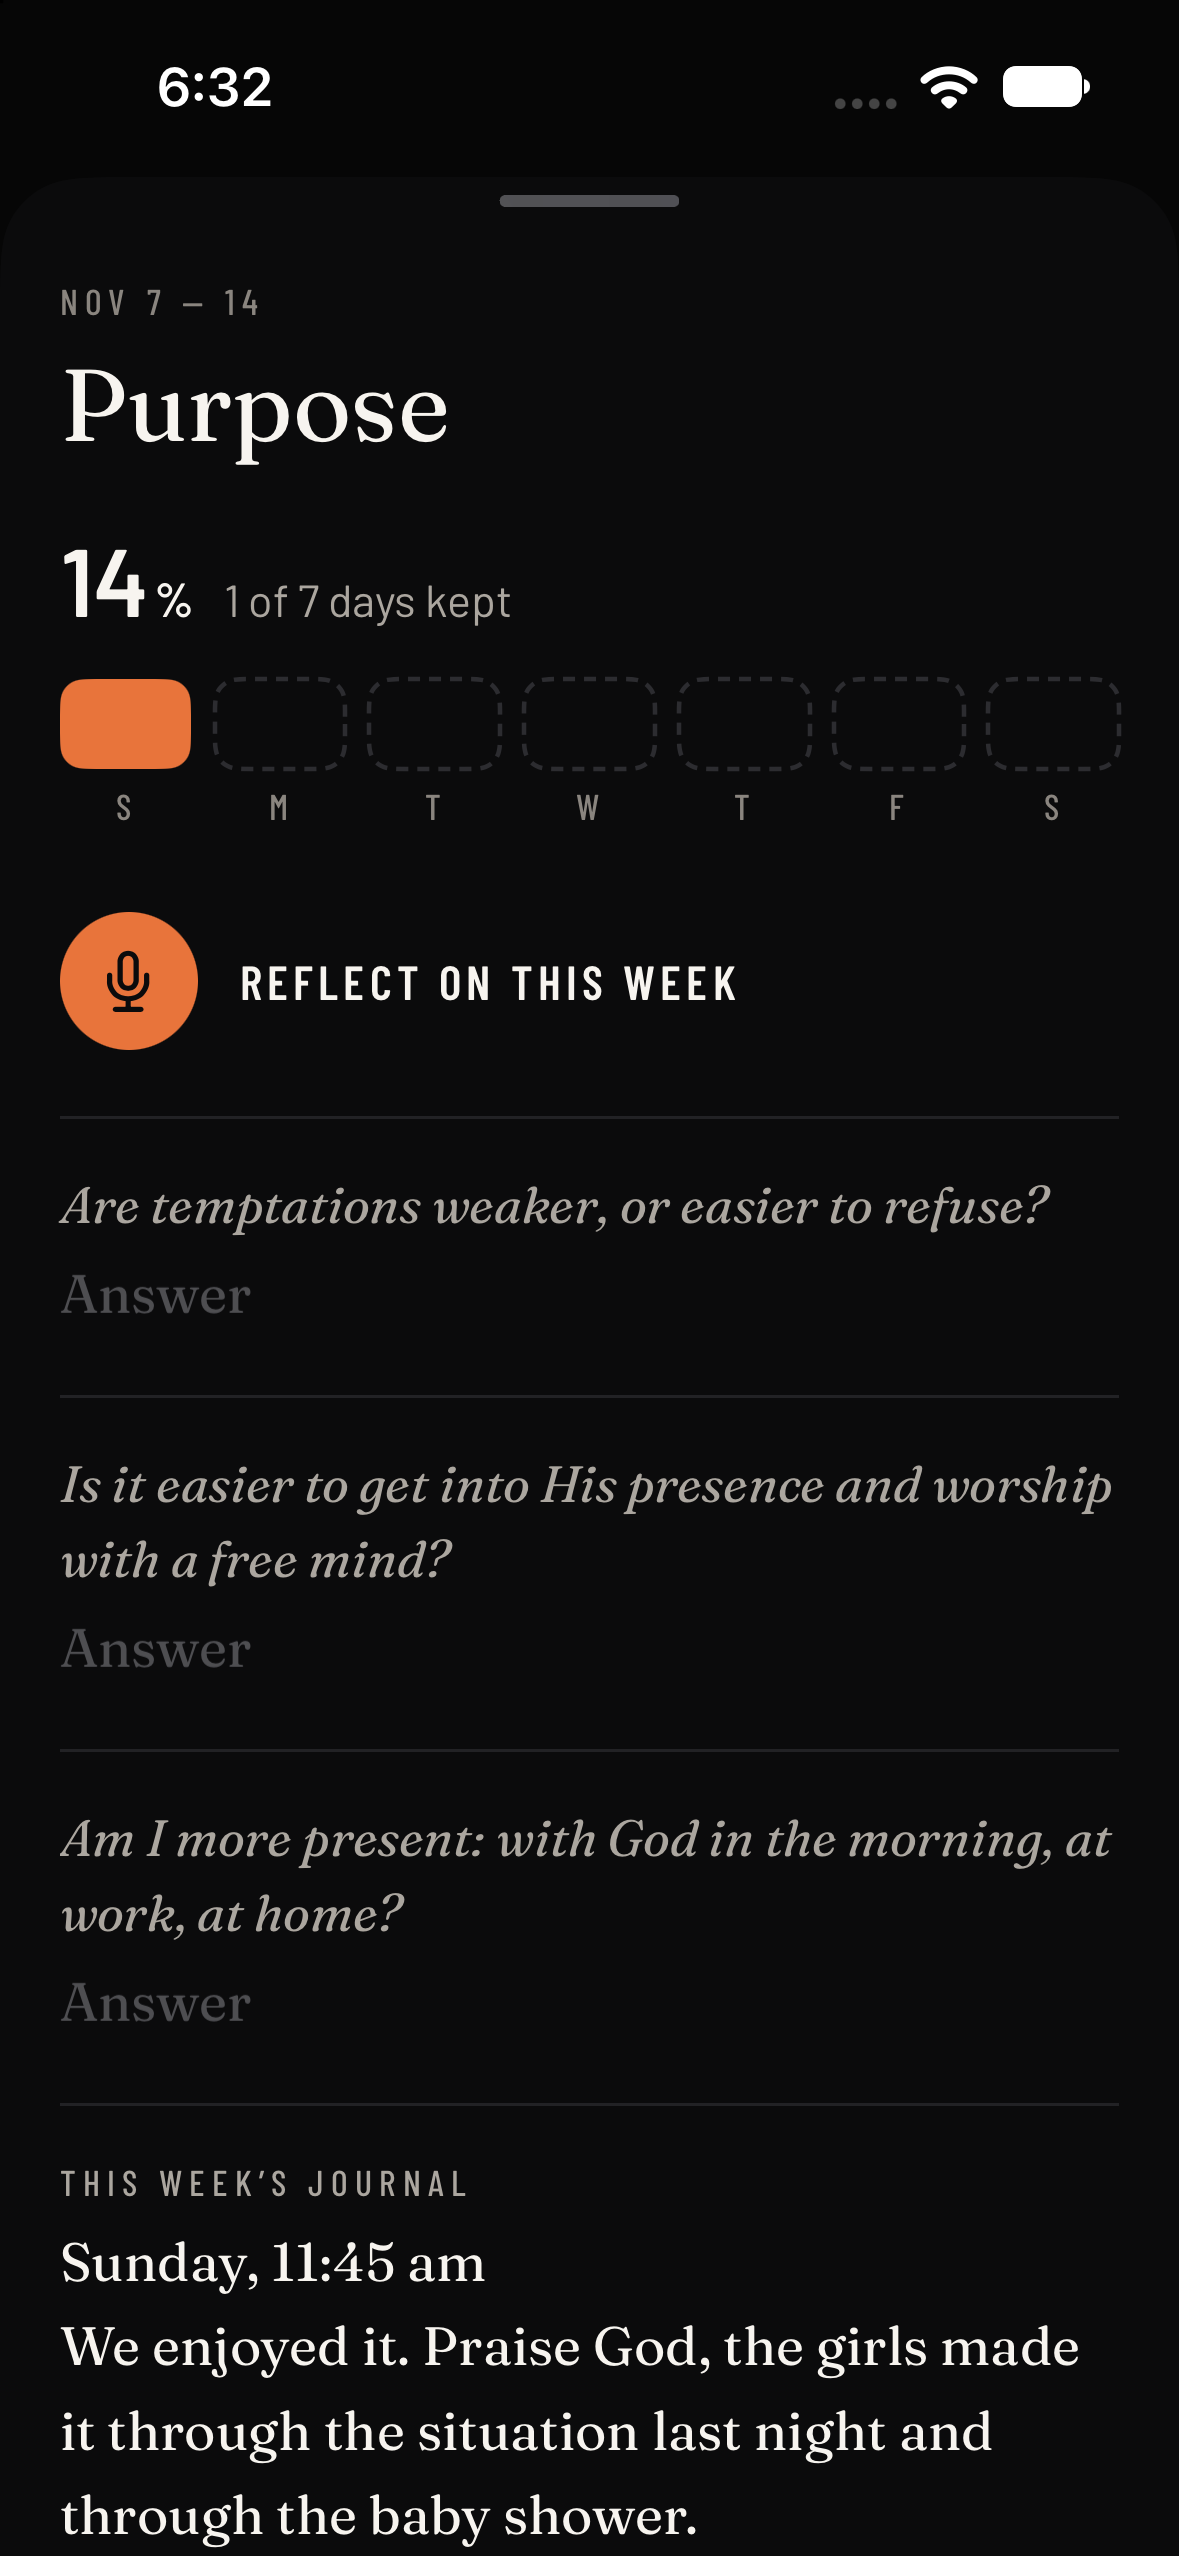
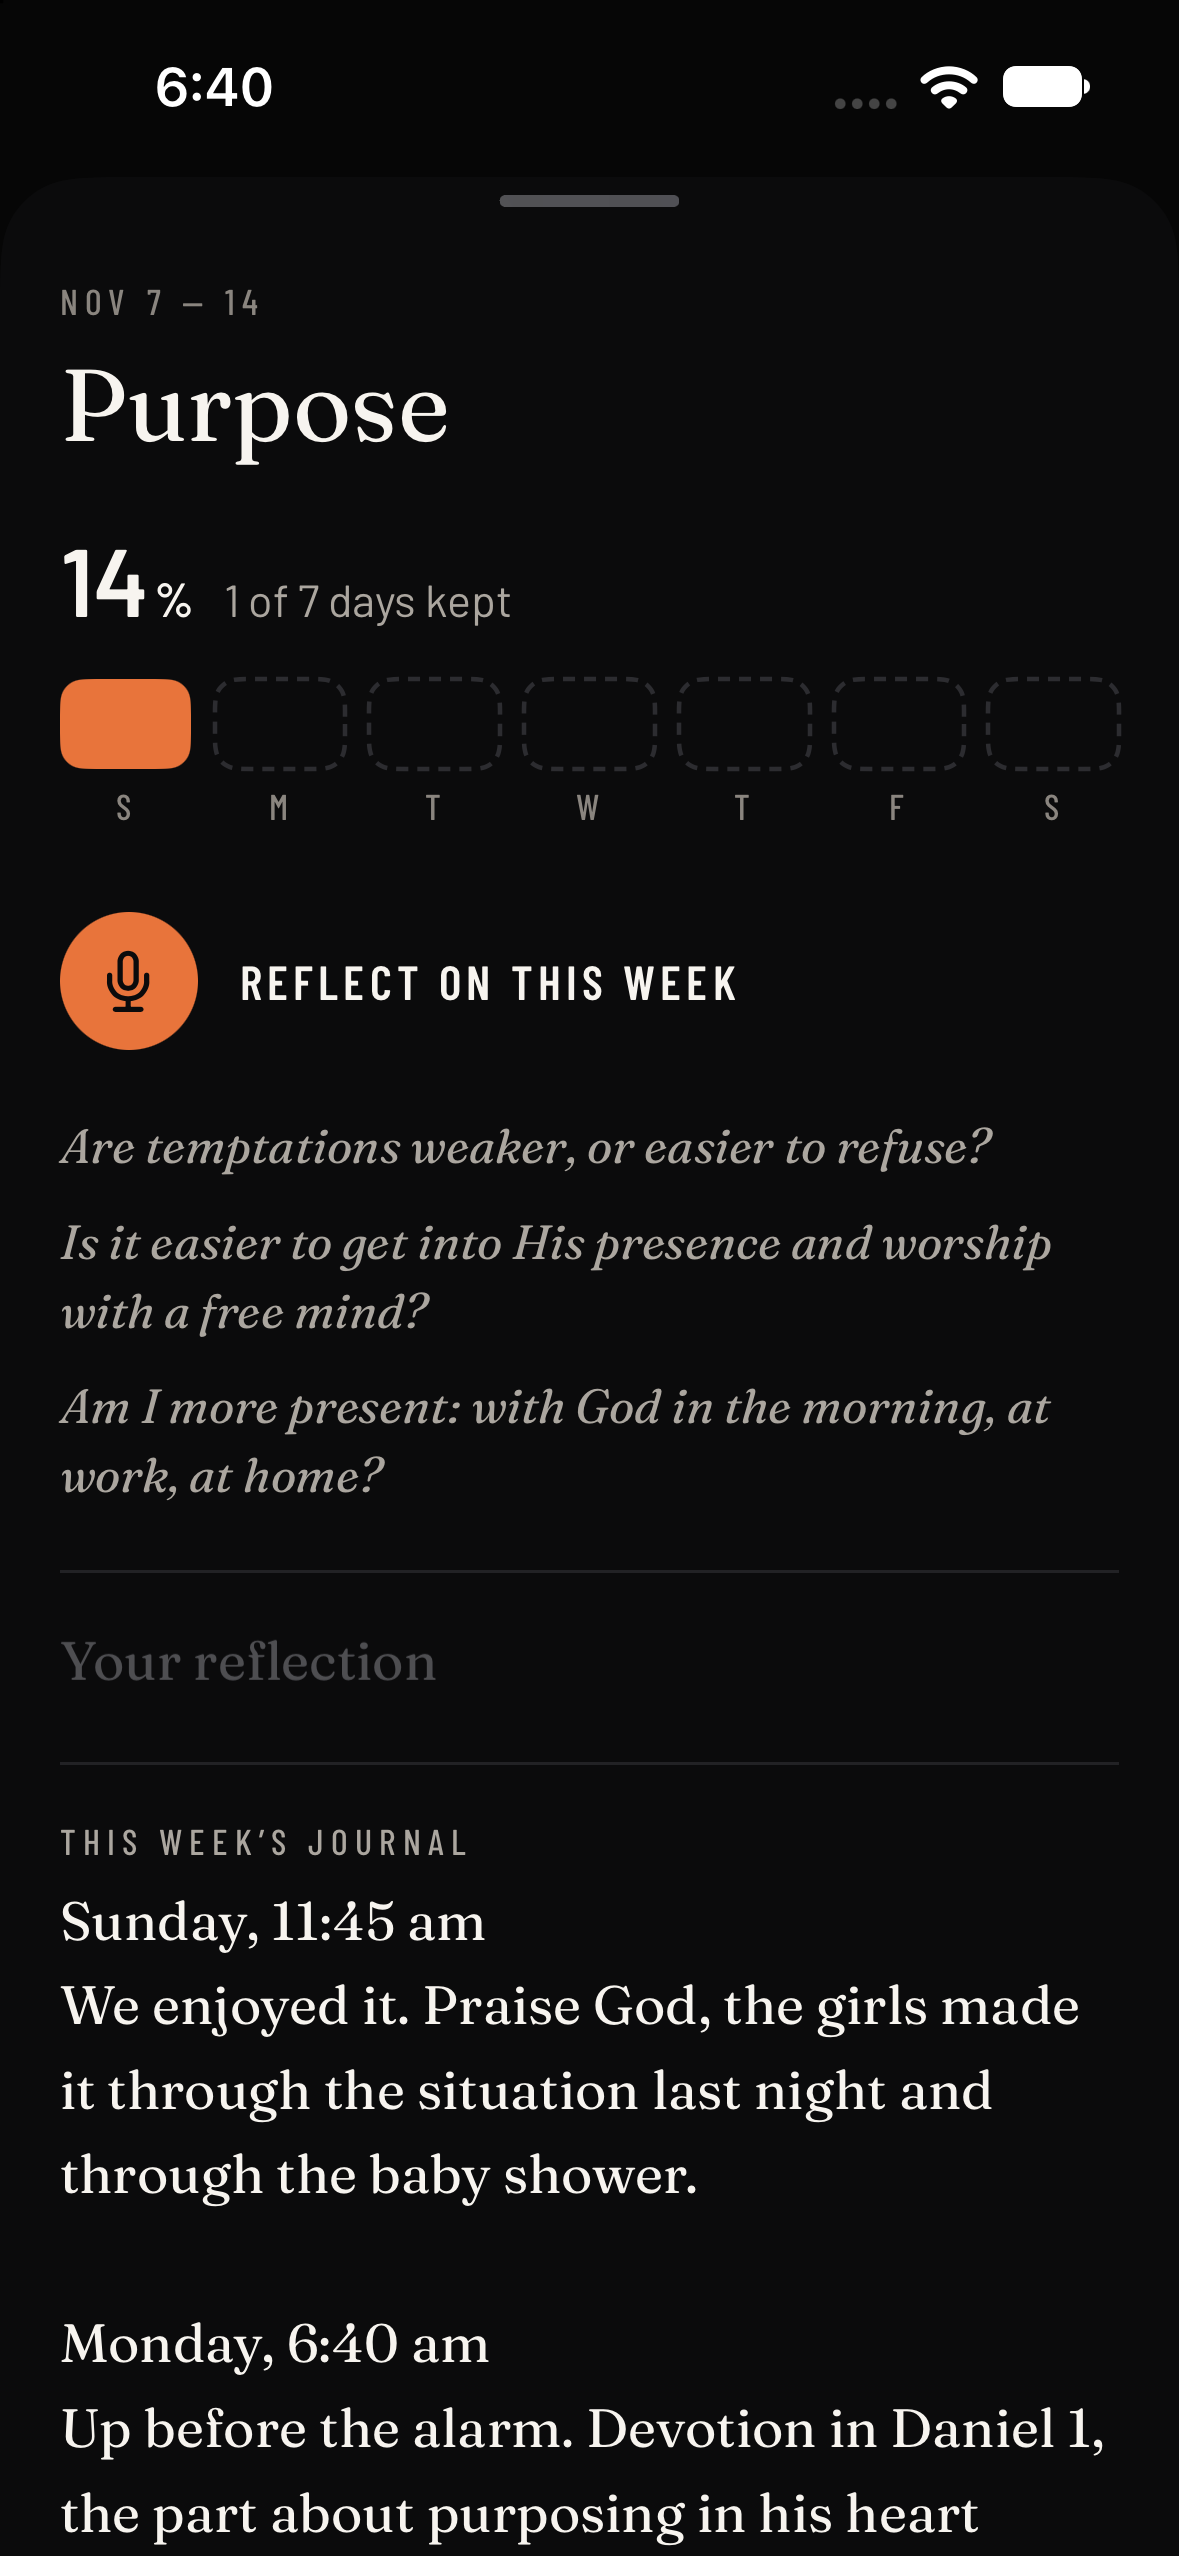
Review: Saturday questions are prompts, one free reflection saved as a stamped entry; tidy function simplified

diff --git a/ios/WeeklyDirection/CloseView.swift b/ios/WeeklyDirection/CloseView.swift
@@ -1,31 +1,24 @@
 import SwiftUI
 
-/// Close the week (web: openClose / renderClose): the result as recorded, the Saturday questions, the reflection
-/// (starts as this week's journal), then Close. Closing writes status, closedAt, percentage and reflection, nothing else.
+/// Close the week (web: openClose / renderClose): the result as recorded, the Saturday questions as prompts, one free
+/// reflection (spoken or typed), and this week's journal, then Close. Closing writes status, closedAt, percentage and reflection, nothing else.
 struct CloseSheet: View {
     @EnvironmentObject var store: Store
     @EnvironmentObject var router: Router
     let weekId: String
-    @State private var answers: [String] = []
+    /// the reflection spoken or typed on this page
+    @State private var review = ""
     @State private var questions: [String] = []
     @State private var reflection = ""
     @State private var loaded = false
 
-    /// spoken review: tidied and placed under the questions it answers; typed answers already there are kept
+    /// spoken reflection: tidied, then added to what is already written; the questions are prompts, not fields
     private func spoken(_ raw: String) async -> String? {
-        func add(_ old: String, _ new: String) -> String {
-            let o = old.trimmingCharacters(in: .whitespacesAndNewlines)
-            return new.isEmpty ? old : o.isEmpty ? new : o + " " + new
-        }
-        if let r = await Tidy.review(store, raw, questions) {
-            for i in answers.indices { answers[i] = add(answers[i], r.answers[i]) }
-            if !r.other.isEmpty { reflection = reflection.trimmingCharacters(in: .whitespacesAndNewlines).isEmpty ? r.other : reflection + "\n\n" + r.other }
-            let n = r.answers.filter { !$0.isEmpty }.count
-            return n == 0 ? "Added under Reflection." : "Answered \(n) of \(questions.count)."
-        }
-        let text = Tidy.oneLine(raw)
-        if answers.isEmpty { reflection = reflection.isEmpty ? text : reflection + "\n\n" + text } else { answers[0] = add(answers[0], text) }
-        return Tidy.asSpoken
+        let tidy = await Tidy.clean(store, raw, mode: "reflection")
+        let text = tidy ?? raw.trimmingCharacters(in: .whitespacesAndNewlines)
+        let cur = review.trimmingCharacters(in: .whitespacesAndNewlines)
+        review = cur.isEmpty ? text : cur + "\n\n" + text
+        return tidy == nil ? Tidy.asSpoken : nil
     }
 
     var body: some View {
@@ -59,16 +52,18 @@ struct CloseSheet: View {
                         Text(lim > 0 ? "Starts at \(lim) mg · AM \(sp.am) · PM \(sp.pm)" : "Caffeine-free").font(Theme.ui(15)).foregroundStyle(Theme.tx).padding(.top, 6)
                     }
                     DictateCard(title: "Reflect on this week", autoStart: router.dictateOnOpen, onText: spoken).padding(.top, 28)
-                    // the questions are a plain page: each one, then its answer (spoken or typed) straight under it
-                    ForEach(Array(questions.enumerated()), id: \.offset) { i, q in
-                        Rectangle().fill(Theme.rule).frame(height: 1).padding(.top, 22)
-                        Text(q).font(Theme.serifItalic(17)).lineSpacing(4).foregroundStyle(Theme.mu).padding(.top, 18)
-                        line(text: Binding(get: { i < answers.count ? answers[i] : "" }, set: { if i < answers.count { answers[i] = $0 } }), placeholder: "Answer")
-                            .padding(.top, 8)
+                    // the Saturday questions are prompts to talk or write from (Eddie, Nov 10 2026): nothing to fill in
+                    VStack(alignment: .leading, spacing: 12) {
+                        ForEach(questions, id: \.self) { q in
+                            Text(q).font(Theme.serifItalic(16)).lineSpacing(3).foregroundStyle(Theme.mu)
+                        }
                     }
+                    .padding(.top, 22)
+                    Rectangle().fill(Theme.rule).frame(height: 1).padding(.top, 22)
+                    line(text: $review, placeholder: "Your reflection").padding(.top, 18)
                     Rectangle().fill(Theme.rule).frame(height: 1).padding(.top, 22)
                     Eyebrow(text: "This week’s journal", color: Theme.mu, size: 12).padding(.top, 18)
-                    line(text: $reflection, placeholder: "Anything else from the week?").padding(.top, 8)
+                    line(text: $reflection, placeholder: "Nothing written this week.").padding(.top, 8)
                     Button { close() } label: {
                         Text("Close the week").caps(16).foregroundStyle(Theme.onAc)
                             .frame(maxWidth: .infinity).frame(height: 54)
@@ -83,7 +78,6 @@ struct CloseSheet: View {
                     loaded = true
                     router.dictateOnOpen = false
                     questions = Logic.qsOf(w, store.settings)
-                    answers = Array(repeating: "", count: questions.count)
                     reflection = w.liveRefl
                 }
             }
@@ -98,15 +92,11 @@ struct CloseSheet: View {
             .font(Theme.serif(18)).lineSpacing(6).foregroundStyle(Theme.tx).fullWidth()
     }
 
-    /// joinRef: each answered question as "question\nanswer", then the reflection, separated by blank lines
+    /// what is saved as the week's reflection: the journal as it stands, then this reflection as one more stamped entry
+    /// (the same shape as a journal entry, so it has no blank lines inside)
     private func joined() -> String {
-        var parts = questions.enumerated().compactMap { i, q -> String? in
-            let a = answers[i].trimmingCharacters(in: .whitespacesAndNewlines)
-            return a.isEmpty ? nil : "\(q)\n\(a)"
-        }
         let r = reflection.trimmingCharacters(in: .whitespacesAndNewlines)
-        if !r.isEmpty { parts.append(r) }
-        return parts.joined(separator: "\n\n")
+        return Journal.appended(r, at: Now.date, text: review) ?? r
     }
 
     private func close() {

diff --git a/functions/tidy.js b/functions/tidy.js
@@ -1,7 +1,6 @@
 // Tidy spoken words: the iOS app sends a transcript he dictated while planning or reviewing a week; this returns the same
 // words cleaned up (fillers, repeats and false starts removed), never a summary. Same sign-in check and key as summarize.
-//   mode "vision": { text }            -> { text }
-//   mode "review": { text, questions } -> { answers: [one per question, "" if he did not speak to it], other }
+//   { mode: "vision" | "reflection", text } -> { text }
 const { onRequest } = require('firebase-functions/v2/https');
 const { defineSecret } = require('firebase-functions/params');
 const admin = require('firebase-admin');
@@ -19,11 +18,8 @@ Keep it his: first person, his own words, phrases, tone and every concrete detai
 Do not summarize, generalize, or shorten for its own sake. Do not add ideas, advice, encouragement, interpretation or anything he did not say.`;
 const VISION = `${RULES}
 The note is his vision for a week. Return only the cleaned text: short paragraphs, a blank line between them where the subject changes. No headings, lists or quotes.`;
-const REVIEW = `${RULES}
-The note is his review of a week. You are given numbered questions he answers at the end of each week.
-Place each thing he said under the question it answers best; every part of what he said that is worth keeping goes under exactly one question or into "other".
-Return JSON only: {"answers": [string, ...], "other": string}. "answers" has exactly one string per question, in order; use "" for a question he did not speak to (never invent an answer).
-"other" holds what fits no question, or "". Each string is one paragraph with no line breaks.`;
+const REFLECTION = `${RULES}
+The note is his reflection on the week that just ended. Return only the cleaned text: short paragraphs, a blank line between them where the subject changes. No headings, lists or quotes.`;
 const today = () => new Intl.DateTimeFormat('en-CA', { timeZone: 'America/New_York' }).format(new Date());
 
 exports.tidy = onRequest({ cors: true, region: 'us-central1', secrets: [OPENAI_API_KEY], timeoutSeconds: 60, maxInstances: 3 }, async (req, res) => {
@@ -34,33 +30,21 @@ async function handle(req, res) {
   let uid;
   try { uid = (await admin.auth().verifyIdToken(String(req.get('Authorization') || '').replace(/^Bearer /, ''))).uid; }
   catch (e) { return res.status(401).json({ error: 'Sign in again.' }); }
-  const b = req.body || {}, text = String(b.text || '').trim().slice(0, MAX_CHARS), review = b.mode === 'review';
-  const questions = review ? (Array.isArray(b.questions) ? b.questions : []).map(q => String(q).slice(0, 300)).slice(0, 6) : [];
+  const b = req.body || {}, text = String(b.text || '').trim().slice(0, MAX_CHARS), system = b.mode === 'reflection' ? REFLECTION : VISION;
   if (text.length < 8) return res.status(400).json({ error: 'Not enough to tidy.' });
-  if (review && !questions.length) return res.status(400).json({ error: 'No questions.' });
   const ref = admin.firestore().collection('_voice').doc(uid + '_tidy'), day = today();
   const ok = await admin.firestore().runTransaction(async tx => {
     const s = await tx.get(ref), u = s.exists && s.data().day === day ? s.data() : { day, n: 0 };
     if (u.n + 1 > DAY_REQ) return false; tx.set(ref, { day, n: u.n + 1 }); return true;
   });
   if (!ok) return res.status(429).json({ error: 'Daily limit reached.' });
-  const user = review ? `Questions:\n${questions.map((q, i) => `${i + 1}. ${q}`).join('\n')}\n\nWhat he said:\n${text}` : text;
   let last = '';
   for (const model of MODELS) {
     const r = await fetch('https://api.openai.com/v1/chat/completions', {
       method: 'POST', headers: { Authorization: `Bearer ${cleanKey()}`, 'Content-Type': 'application/json' },
-      body: JSON.stringify({ model, messages: [{ role: 'system', content: review ? REVIEW : VISION }, { role: 'user', content: user }],
-        ...(review ? { response_format: { type: 'json_object' } } : {}) })
+      body: JSON.stringify({ model, messages: [{ role: 'system', content: system }, { role: 'user', content: text }] })
     });
-    if (r.ok) {
-      const out = String((await r.json()).choices?.[0]?.message?.content || '').trim();
-      if (!out) { last = 'empty'; continue; }
-      if (!review) return res.json({ text: out, model });
-      let j; try { j = JSON.parse(out); } catch (e) { last = 'bad json'; continue; }
-      const one = s => String(s || '').replace(/\s*\n+\s*/g, ' ').trim();
-      const answers = questions.map((_, i) => one(Array.isArray(j.answers) ? j.answers[i] : ''));
-      return res.json({ answers, other: one(j.other), model });
-    }
+    if (r.ok) { const out = String((await r.json()).choices?.[0]?.message?.content || '').trim(); if (out) return res.json({ text: out, model }); last = 'empty'; continue; }
     last = `${r.status} ${(await r.text()).slice(0, 300)}`; console.warn('tidy', model, last);
     if (r.status === 401 || r.status === 429 || r.status >= 500) break;
   }

diff --git a/ios/WeeklyDirection/Dictate.swift b/ios/WeeklyDirection/Dictate.swift
@@ -109,21 +109,11 @@ enum Tidy {
         } catch { return nil }
     }
 
-    @MainActor static func vision(_ store: Store, _ text: String) async -> String? {
-        let t = (await call(store, ["mode": "vision", "text": text])?["text"] as? String)?.trimmingCharacters(in: .whitespacesAndNewlines)
+    /// mode "vision" (a plan) or "reflection" (a review): the same clean-up, told what the note is
+    @MainActor static func clean(_ store: Store, _ text: String, mode: String) async -> String? {
+        let t = (await call(store, ["mode": mode, "text": text])?["text"] as? String)?.trimmingCharacters(in: .whitespacesAndNewlines)
         return t?.isEmpty == false ? t : nil
     }
 
-    /// one answer per question ("" where he did not speak to it), plus what fits none of them
-    @MainActor static func review(_ store: Store, _ text: String, _ questions: [String]) async -> (answers: [String], other: String)? {
-        guard !questions.isEmpty, let j = await call(store, ["mode": "review", "text": text, "questions": questions]),
-              let a = j["answers"] as? [String], a.count == questions.count else { return nil }
-        return (a.map(oneLine), oneLine(j["other"] as? String ?? ""))
-    }
-
-    /// an answer is one paragraph: a blank line inside it would split the saved reflection into two entries
-    static func oneLine(_ s: String) -> String {
-        s.replacingOccurrences(of: "\\s*\\n+\\s*", with: " ", options: .regularExpression).trimmingCharacters(in: .whitespacesAndNewlines)
-    }
     static let asSpoken = "Added as spoken."
 }

diff --git a/ios/WeeklyDirection/PlanView.swift b/ios/WeeklyDirection/PlanView.swift
@@ -158,7 +158,7 @@ struct PlanView: View {
 
     /// spoken plan: tidied, then added under what the vision already says
     private func spoken(_ raw: String) async -> String? {
-        let tidy = await Tidy.vision(store, raw)
+        let tidy = await Tidy.clean(store, raw, mode: "vision")
         let text = tidy ?? raw.trimmingCharacters(in: .whitespacesAndNewlines)
         let cur = thoughts.trimmingCharacters(in: .whitespacesAndNewlines)
         thoughts = cur.isEmpty ? text : cur + "\n\n" + text

diff --git a/ios/docs/PROGRESS.md b/ios/docs/PROGRESS.md
@@ -6,6 +6,11 @@
 - A prayer that is only its name opens as a half sheet with "Add to this prayer"; Edit or that line lifts it to the full page. A prayer with text, the life prayer and New still open full height. The list stays plain rows (a text preview line was tried and removed the same day: Eddie wants the list simple).
 - Layout only: no change to what is saved. Verified: simulator shots `prayer`, `prayer-short`. Not verified: on the phone; the lift to full height when Edit is tapped.
 
+## Questions are prompts (Nov 10)
+- Review page: the Saturday questions are shown as prompts only; there is one free reflection (spoken or typed) and this week's journal. Closing saves the journal plus the reflection as one more stamped entry ("Saturday, 5:32 pm" + text, no blank lines inside). iOS no longer writes "question + answer" blocks; weeks closed on the web still have them and still display.
+- `tidy` is now `{mode: "vision" | "reflection", text}` → `{text}` only (the per-question split is gone). Still not deployed.
+- Verified: shot `close`, 13 tests. Not verified: closing a week with a spoken reflection, on the phone.
+
 ## Review on the main page (Nov 10)
 - This Week on review day / when due: a block under the day strip with "Reflect on this week" (the mic opens the review and starts listening; the row opens it to read or type) and "Plan next week" (muted until the week is closed; opens the review). Replaces the old "Weekly review" card.
 - When every habit of today is done, failed or missed, the habit list tucks away under one row ("Daily habits · done for today", tap to open again).

diff --git a/ios/CLAUDE.md b/ios/CLAUDE.md
@@ -49,7 +49,8 @@ Every report shows the simulator shot next to the reference, says what was not v
 
 ## Voice in plan and review (Nov 10 2026)
 `DictateCard` + `Tidy` (Dictate.swift) and `Recorder.startDictation / finishDictation`. Cloud Function `tidy` takes
-`{mode: "vision", text}` → `{text}` or `{mode: "review", text, questions}` → `{answers, other}`. It must clean, never summarize.
+`{mode: "vision" | "reflection", text}` → `{text}`. It must clean, never summarize. The Saturday questions are prompts on
+the review page, not fields: the review saves the journal plus the reflection as one more stamped entry.
 
 ## Known pitfalls
 - A failing XCTest assertion hangs (XCTest stalls collecting the failure's call stack) instead of printing. `scripts/test.sh`
